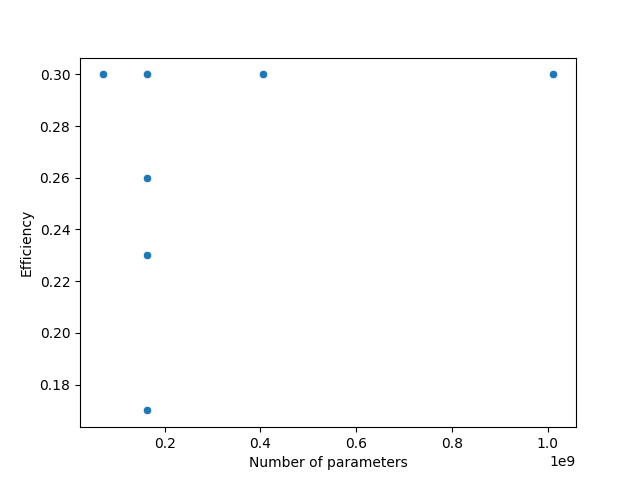
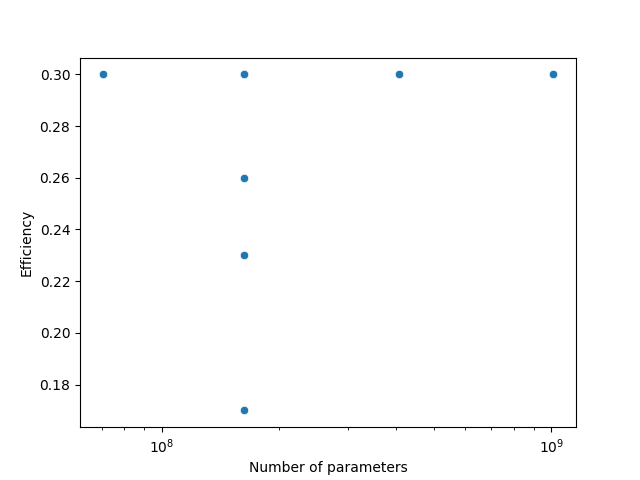
feat: checkpoint

diff --git a/cooperation_scaling/analysis.py b/cooperation_scaling/analysis.py
@@ -16,6 +16,7 @@ fig, ax = plt.subplots()
 sns.scatterplot(data=games, x="params", y="efficiency", ax=ax)
 ax.set_xlabel("Number of parameters")
 ax.set_ylabel("Efficiency")
+ax.set_xscale("log")
 plt.savefig(ROOT_PATH / "plots" / "param_size_vs_efficiency_scatterplot.png")
 
 # Plot training_steps vs efficiency (scatterplot)
